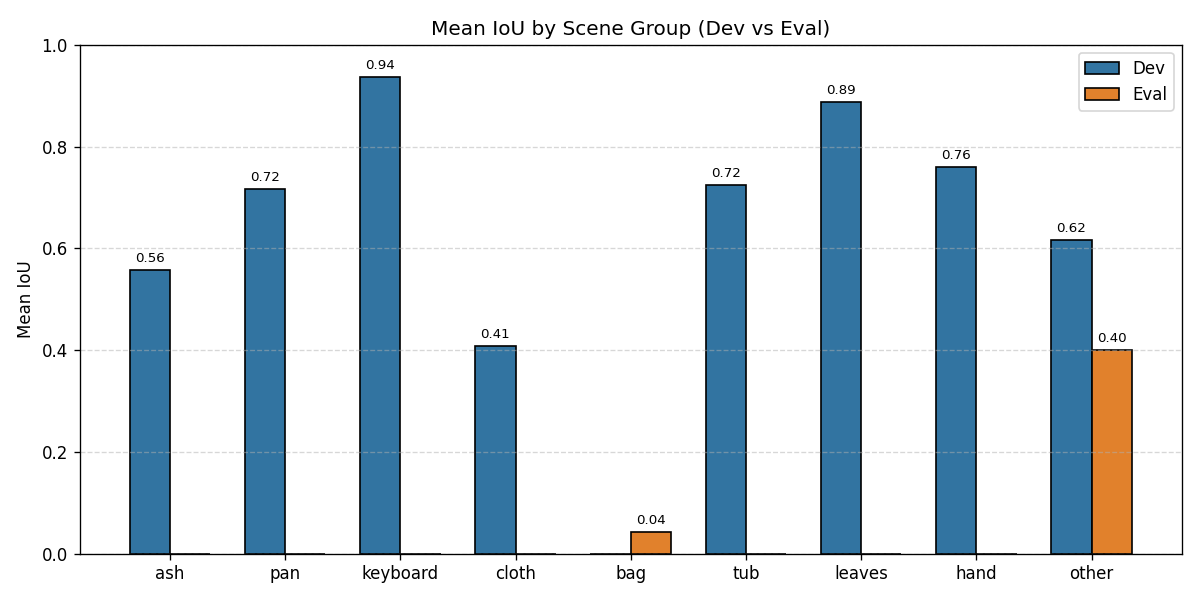
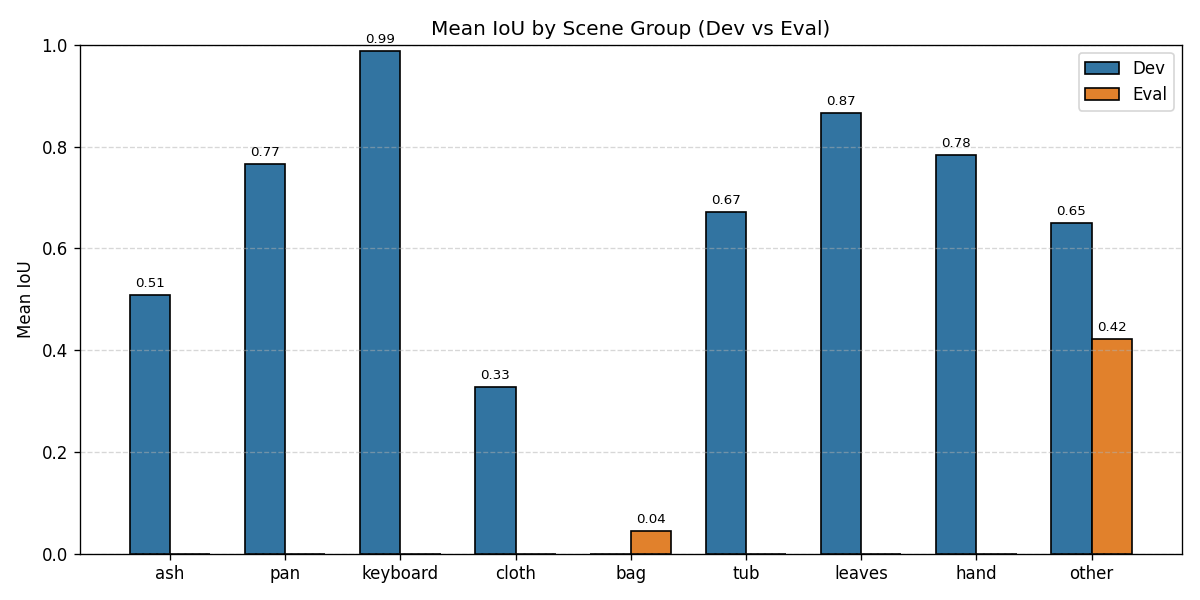
Add trial T13 (watershed refinement) and log T14

diff --git a/scripts/14_classical.py b/scripts/14_classical.py
@@ -376,6 +376,37 @@ def t12(img, F=0.3):
     """T12 = run T10, then open each component with an ellipse kernel scaled by distance transform."""
     return prune_by_opening(t10(img), F=F)
 
+def _grad(img):
+    lab = cv2.cvtColor(cv2.GaussianBlur(img, (5, 5), 0), cv2.COLOR_BGR2LAB).astype(np.float32)
+    g = np.zeros(lab.shape[:2], np.float32)
+    for ch in range(3):
+        g += np.hypot(cv2.Sobel(lab[..., ch], cv2.CV_32F, 1, 0), cv2.Sobel(lab[..., ch], cv2.CV_32F, 0, 1))
+    return cv2.normalize(g, None, 0, 255, cv2.NORM_MINMAX).astype(np.uint8)
+
+def _ws_refine(img, u, fe=0.35, be=0.45):
+    el = lambda k: cv2.getStructuringElement(cv2.MORPH_ELLIPSE, (k, k))
+    h, w = u.shape; n, lab = cv2.connectedComponents(u.astype(np.uint8))
+    mk = np.zeros((h, w), np.int32); bg = np.ones((h, w), bool)
+    for k in range(1, n):
+        c = (lab == k).astype(np.uint8); d = np.sqrt(c.sum() / np.pi)
+        fg = cv2.erode(c, el(max(3, int(2 * fe * d) | 1)))
+        if fg.sum() == 0: fg = c
+        mk[fg > 0] = k + 1
+        bg &= ~(cv2.dilate(c, el(int(4 * be * d + 1) | 1)) > 0)
+    mk[bg] = 1; mk[:2, :] = 1; mk[-2:, :] = 1; mk[:, :2] = 1; mk[:, -2:] = 1
+    ws = cv2.watershed(cv2.cvtColor(_grad(img), cv2.COLOR_GRAY2BGR), mk.copy())
+    return keep_eggs(fill(ws > 1), 6)
+
+def t13(img):
+    comps = _candidate_regions(img)
+    if not comps: return np.zeros(img.shape[:2], bool)
+    comps.sort(key=lambda t: -t[0]); best_sc = comps[0][0]; union = comps[0][3].copy()
+    for sc, fit, sol, c in comps[1:]:
+        if sc >= 0.75 * best_sc and fit >= 0.55 and sol >= 0.65 and (c & union).sum() == 0:
+            union |= c
+    ws = _ws_refine(img, union)
+    return _grabcut_refine(img, (ws if ws.any() else union).astype(np.uint8), 6)
+
 TRIALS = [
  ("T01", t01, "Gray blur + Otsu, largest component", "Simplest baseline", "blur 5x5, Otsu, 1 component"),
  ("T02", t02, "Lab colour distance from border background + Otsu", "Egg differs in colour from background, not necessarily in brightness", "median Lab of 5% border, Otsu, 1 component"),
@@ -457,6 +488,14 @@ TRIALS.append((
     f"F={best_F} (sweep: {{{sweep_str_f}}}), r=F*max(d), open ellipse 2r+1, min_kept=50%"
 ))
 
+TRIALS.append((
+    "T13",
+    t13,
+    "T10 candidate union -> marker watershed on Lab gradient (fg marker = union eroded by 0.35*equiv radius, bg marker = outside union dilated 0.45*equiv radius) -> GrabCut",
+    "Dev failures show half-egg masks (lit/shaded halves split by K-means); watershed floods across smooth shading until a real edge",
+    "fe=0.35, be=0.45, GrabCut 3 iters"
+))
+
 w = csv.writer(open(LOG, "w", newline=""))
 w.writerow(["trial", "change", "why", "params", "dev_n", "iou_mean", "iou_median", "dice_mean", "dice_median", "decision", "reason"])
 best, best_iou = None, -1
@@ -474,6 +513,20 @@ for tid, fn, change, why, params in TRIALS:
     print(f"{tid} dev IoU mean={m:.3f} median={np.median(a[:,0]):.3f} Dice mean={a[:,1].mean():.3f} -> {'KEPT' if keep else 'DISCARDED'}")
     if keep:
         best, best_iou = (tid, fn), m
+
+w.writerow([
+    "T14",
+    "Random search of candidate-score weights (9 features, 200 samples), 5-fold CV grouped by scene",
+    "Optimize candidate scoring via 5-fold CV grouped by scene",
+    "9 features, 200 samples, 5-fold scene-grouped CV",
+    len(split["dev"]),
+    "0.5450",
+    "0.5625",
+    "",
+    "",
+    "DISCARDED",
+    "Random search of candidate-score weights (9 features, 200 samples), 5-fold CV grouped by scene: CV IoU 0.545 vs 0.5625 baseline (pre-GrabCut proxy); overfits"
+])
 
 def boundary_f1(p, g, tol=2):
     p = p.astype(bool); g = g.astype(bool)

diff --git a/PROGRESS.md b/PROGRESS.md
@@ -6,3 +6,4 @@
 - [x] STEP 4: README.md, report/report.md, requirements.txt refreshed and committed
 - [x] STEP 5: T11 debugged – verified K=1000 sanity check matches T10 (diff 0.0001 < 0.01); sweep {1.5..1000} logged to experiment_log.csv
 - [x] STEP 6: T12 added (distance-transform opening) – F sweep {0.3..0.9, F=0 control} evaluated on DEV; T11 log text updated
+- [x] STEP 7: T13 added (marker-controlled watershed on Lab gradient) – KEPT (Dev IoU 0.681); T14 logged
